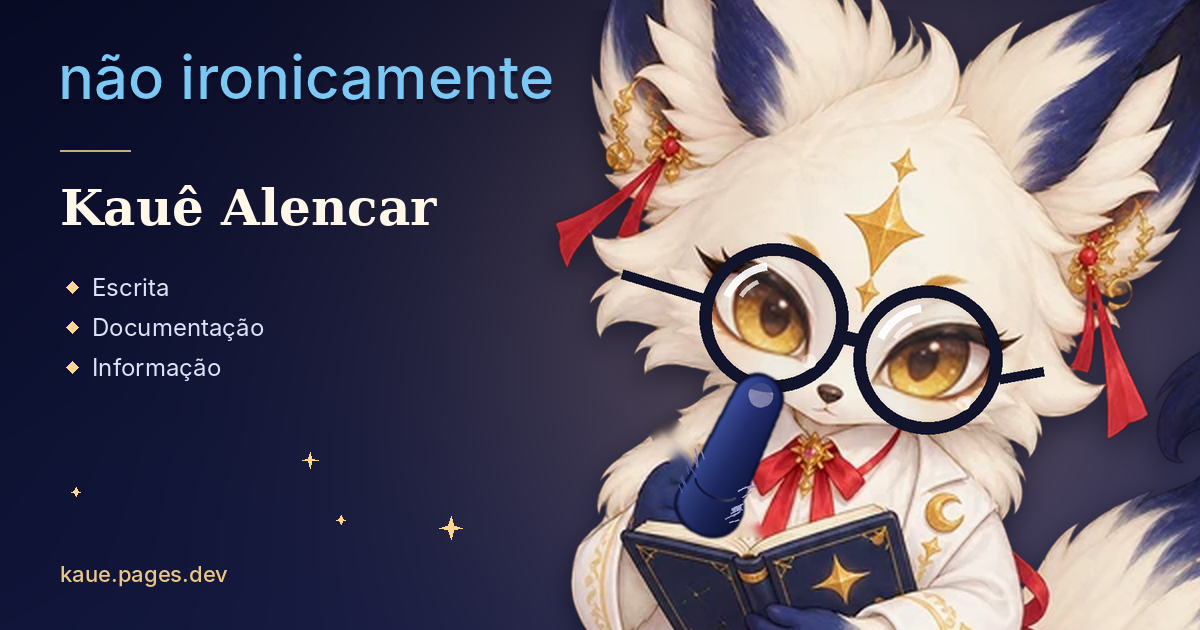
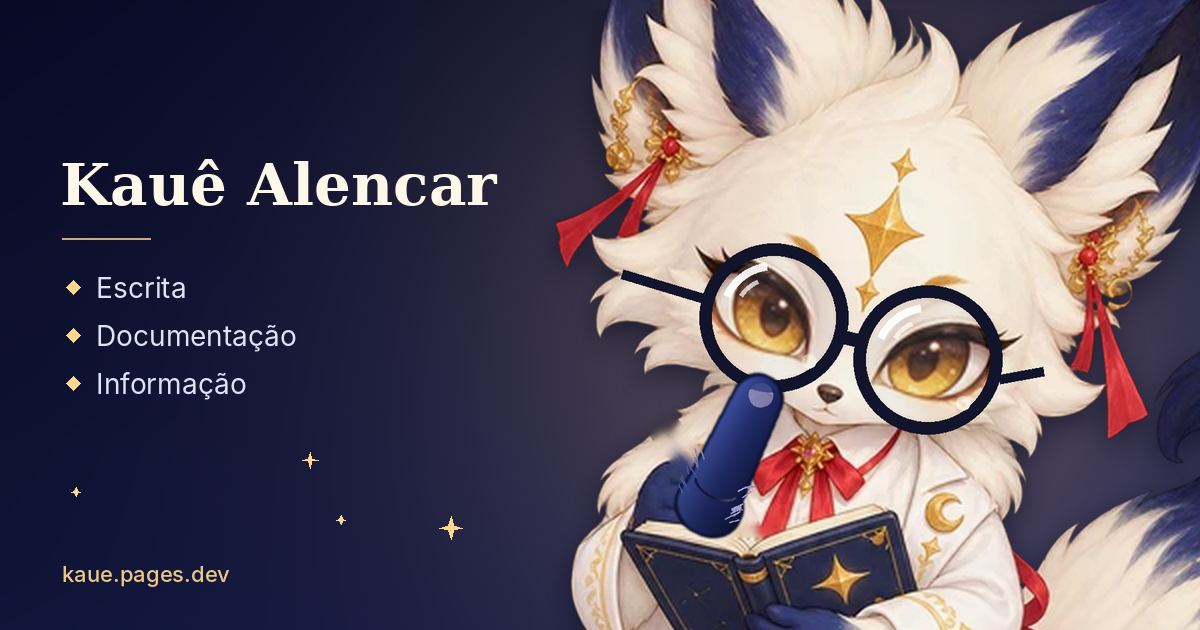
OG: drop the 'não ironicamente' caption; Sophia sigil: orbiting spark, spinning ring, glow pulse and fur shine
Claude-Session: https://claude.ai/code/session_01LkhFtMNa1LaZwJcWyAFH5G

diff --git a/src/config.ts b/src/config.ts
@@ -3,8 +3,8 @@ export const SITE = {
   description:
     'Portfólio pessoal de Kauê Alencar: documentação, organização da informação, escrita e publicação digital.',
   url: 'https://kaue.pages.dev',
-  ogImage: '/og-portfolio.jpg?v=20261012b',
-  ogImageAlt: 'Sophia, raposa cósmica, de óculos redondos com reflexos brancos e pata erguida junto ao rosto, sob “não ironicamente”; cartão azul-noite estrelado com Kauê Alencar, Escrita, Documentação e Informação.',
+  ogImage: '/og-portfolio.jpg?v=20261013',
+  ogImageAlt: 'Sophia, raposa cósmica, de óculos redondos com reflexos brancos e pata erguida junto ao rosto, em close; cartão azul-noite estrelado com Kauê Alencar, Escrita, Documentação e Informação.',
 };
 
 export const PROFILE = {

diff --git a/scripts/build-og-card.py b/scripts/build-og-card.py
@@ -1,5 +1,5 @@
 #!/usr/bin/env python3
-"""Build the link-preview card ("não ironicamente" Sophia) and its animated twin.
+"""Build the link-preview card (Sophia (round glasses, raised finger)) and its animated twin.
 
     pip install pillow numpy scipy opencv-python-headless
     python3 scripts/build-og-card.py
@@ -152,7 +152,7 @@ def background(t=0.0):
     pts = [(rnd.randint(30, W - 30), rnd.randint(20, H - 20), rnd.random() * 6.28, rnd.choice((3, 4, 5, 7))) for _ in range(46)]
     for x, y, ph, s in pts:
         tw = .45 + .55 * (.5 + .5 * math.sin(ph + t * 6.283))
-        if (x < 620 and y < 440) or (x < 330 and y > 520) or (x > 560 and y > 120):   # keep text and Sophia clear
+        if (x < 620 and y < 420) or (x < 330 and y > 520) or (x > 560 and y > 120):   # keep text and Sophia clear
             continue
         c = (255, 214, 140, int(190 * tw))
         d.polygon([(x, y - s * 1.6), (x + s * .38, y - s * .38), (x + s * 1.6, y), (x + s * .38, y + s * .38),
@@ -166,18 +166,14 @@ def background(t=0.0):
 def text_layer():
     T = Image.new('RGBA', (W, H), (0, 0, 0, 0))
     d = ImageDraw.Draw(T)
-    cap = font(INTER.format('Medium'), 60)
-    for dx, dy, al in ((0, 5, 90),):
-        d.text((58 + dx, 40 + dy), 'não ironicamente', font=cap, fill=(0, 0, 20, al))
-    d.text((58, 40), 'não ironicamente', font=cap, fill=CAPTION + (255,))
-    d.line([(60, 150), (130, 150)], fill=(255, 214, 140, 200), width=2)
-    d.text((60, 178), 'Kauê Alencar', font=font('/usr/share/fonts/truetype/dejavu/DejaVuSerif-Bold.ttf', 50), fill=(255, 247, 232, 255))
-    sub = font(INTER.format('Regular'), 24)
+    d.text((60, 150), 'Kauê Alencar', font=font('/usr/share/fonts/truetype/dejavu/DejaVuSerif-Bold.ttf', 58), fill=(255, 247, 232, 255))
+    d.line([(62, 238), (150, 238)], fill=(255, 214, 140, 200), width=2)
+    sub = font(INTER.format('Regular'), 28)
     for i, line in enumerate(('Escrita', 'Documentação', 'Informação')):
-        y = 272 + i * 40
-        d.polygon([(66, y + 15), (72, y + 9), (78, y + 15), (72, y + 21)], fill=(255, 214, 140, 255))
-        d.text((92, y), line, font=sub, fill=(222, 228, 247, 255))
-    d.text((60, 560), 'kaue.pages.dev', font=font(INTER.format('Medium'), 22), fill=(255, 214, 140, 235))
+        y = 270 + i * 48
+        d.polygon([(66, y + 17), (73, y + 10), (80, y + 17), (73, y + 24)], fill=(255, 214, 140, 255))
+        d.text((96, y), line, font=sub, fill=(222, 228, 247, 255))
+    d.text((62, 560), 'kaue.pages.dev', font=font(INTER.format('Medium'), 22), fill=(255, 214, 140, 235))
     return T
 
 _HEAD = None
